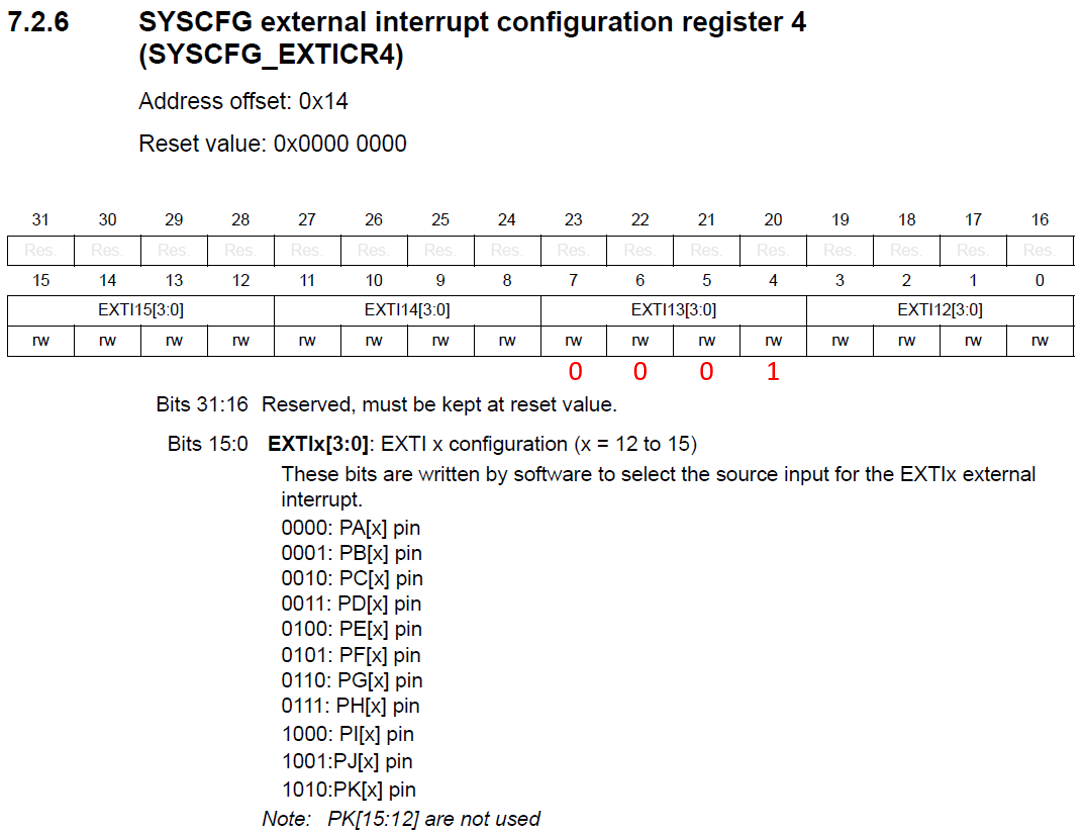
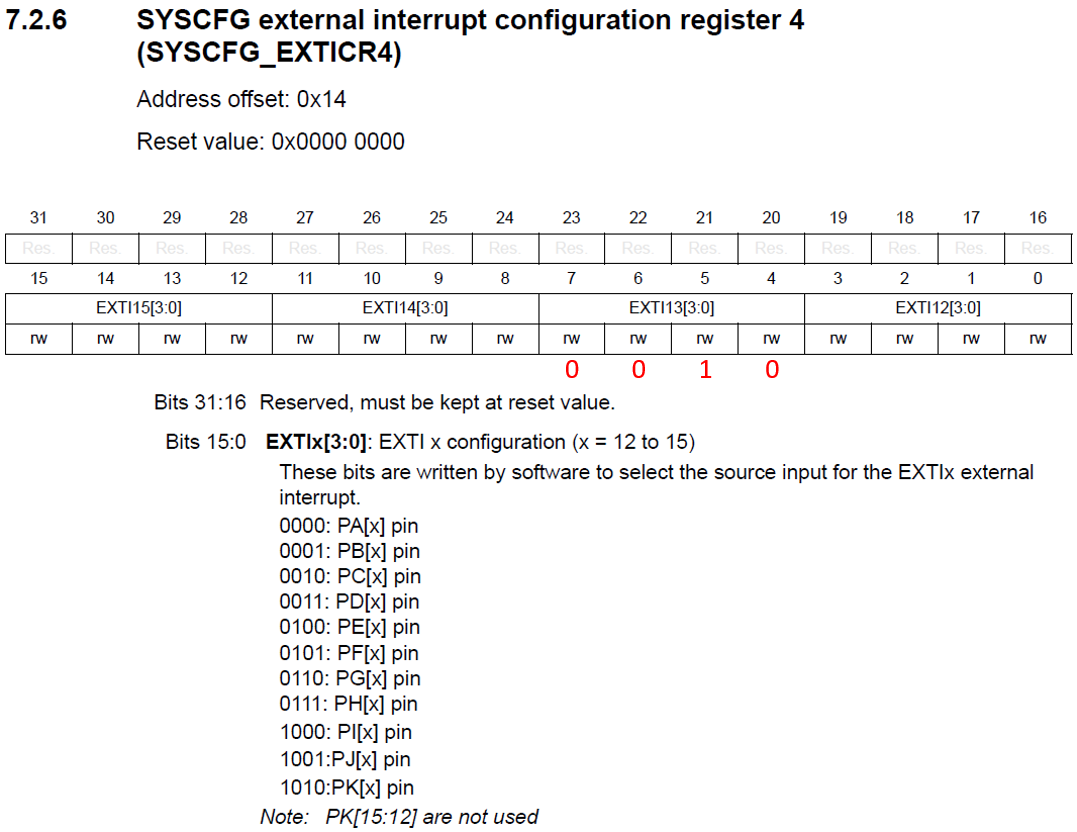
user push button interrupt code

Changed region(s): [[0.0, 0.25, 1.0, 1.0], [0.1226, 0.0, 0.766, 0.1875], [0.0, 0.0, 0.0613, 0.0625]]

diff --git a/Aula6/README.md b/Aula6/README.md
@@ -95,10 +95,82 @@ El (NVIC) es el encargado de procesar todas las interrupciones en los procesador
 <figcaption>Fuente: Manual de referencia</figcaption>
 </div>
 
+<h3>Registro RCC_APB2ENR</h3>
+
+<div align="center">
+<img src="image-12.png" alt="RCC_APB2ENR"/>
+<br>
+<figcaption>Fuente: Manual de referencia</figcaption>
+</div>
+
 <h3>Ejemplo 1</h3>
 
 ```cpp
+//Ejemplo Interrupciones con led de usuario de la tarjeta
+//Fabián Barrera Prieto
+//Universidad ECCI
+//STM32F767ZIT6U
+//operation 'or' (|) for set bit and operation 'and' (&) for clear bit
 
+#include <stdio.h>
+#include "stm32f7xx.h"
+
+uint8_t cont = 0;
+uint32_t a, b, c;
+
+extern "C"{
+	void EXTI15_10_IRQHandler(void){
+		EXTI->PR |= 1; //Down flag
+		if(((GPIOC->IDR & (1<<13)) >> 13) == 1){//Read PC13 pin
+			cont += 1;
+			if(cont == 5){
+				cont = 0;
+				a = (~(GPIOB->ODR&(1<<7)));
+				b = (GPIOB->ODR|(1<<7));
+				c = a&b;
+				GPIOB->ODR = c;
+			}
+		}
+	}
+}
+
+int main(){
+	//GPIOs
+	RCC->AHB1ENR |= ((1<<1)|(1<<2)); 
+	
+	GPIOB->MODER &= ~(0b11<<0);
+	GPIOB->MODER |= (1<<0); 
+	GPIOB->MODER &= ~(0b11<<14);
+	GPIOB->MODER |= (1<<14);
+	GPIOC->MODER &= ~(0b11<<26);
+	
+	GPIOB->OTYPER &= ~(1<<0);  
+	GPIOB->OTYPER &= ~(1<<7);
+	GPIOB->OSPEEDR |= ((1<<1)|(1<<0));
+	GPIOB->OSPEEDR |= ((1<<15)|(1<<14));
+	GPIOC->OSPEEDR |= ((1<<27)|(1<<26));
+	GPIOB->PUPDR &= ~(0b11<<0);
+	GPIOB->PUPDR &= ~(0b11<<14);
+	GPIOC->PUPDR &= ~(0b11<<26);
+	GPIOC->PUPDR |= (1<<27);
+	
+	//Interrupt
+	RCC->APB2ENR |= (1<<14); //Enable the SYSCFG clock (EXTI)
+	SYSCFG->EXTICR[3] &= ~(0b1111<<4); //Clear bits [7:0] (Px13)
+	SYSCFG->EXTICR[3] |= (1<<5); //Select the pin 13 on port C like interrupt [7:0]=0010 (PC13)
+	EXTI->IMR |= (1<<13); //Enable the interrupt on pin 13
+	EXTI->RTSR |= (1<<13); //Select rising edge for interrupt
+	NVIC_EnableIRQ(EXTI15_10_IRQn); //Enable the NVIC module
+		
+	while(1){
+      for (int t=0;t<1000000;t++){
+				GPIOB->ODR |= 1<<0;
+			}
+			for (int t=0;t<1000000;t++){
+				GPIOB->ODR &= ~(1<<0);
+			}
+	}
+}
 ```
 
 

diff --git a/Aula4/README.md b/Aula4/README.md
@@ -150,13 +150,6 @@ La configuración Open-Drain consiste en dejar el pin "Drain" del transistor MOS
 #include <stdio.h>
 #include "stm32f7xx.h"
 
-void Delay (uint32_t time)
-{
-	//while (time--);  
-	for (int t=0;t<time;t++);
-
-}
-
 int main(){
 
 	RCC->AHB1ENR |= (1<<1); //Enable the GPIOB clock (user led LD1 is connected to PB0)
@@ -176,11 +169,13 @@ int main(){
 	while(1){
     //if(((GPIOC->IDR & (1<<13)) >> 13) == 1){//Read PC13 pin
       //GPIOB->BSRR |= (1<<0); // Set the Pin PB0
-      GPIOB->ODR |= 1<<0; // Set the Pin PB0
-      Delay(1000000);
+	  for (int t=0;t<1000000;t++){
+		GPIOB->ODR |= 1<<0; // Set the Pin PB0
+	  }
       //GPIOB->BSRR |= (1<<16); // Reset the Pin PB0
-      GPIOB->ODR &= ~(1<<0); // Reset the Pin PB0
-      Delay(1000000);
+      for (int t=0;t<1000000;t++){
+	  	GPIOB->ODR &= ~(1<<0); // Reset the Pin PB0
+	  }
     //}
 	}
 }
